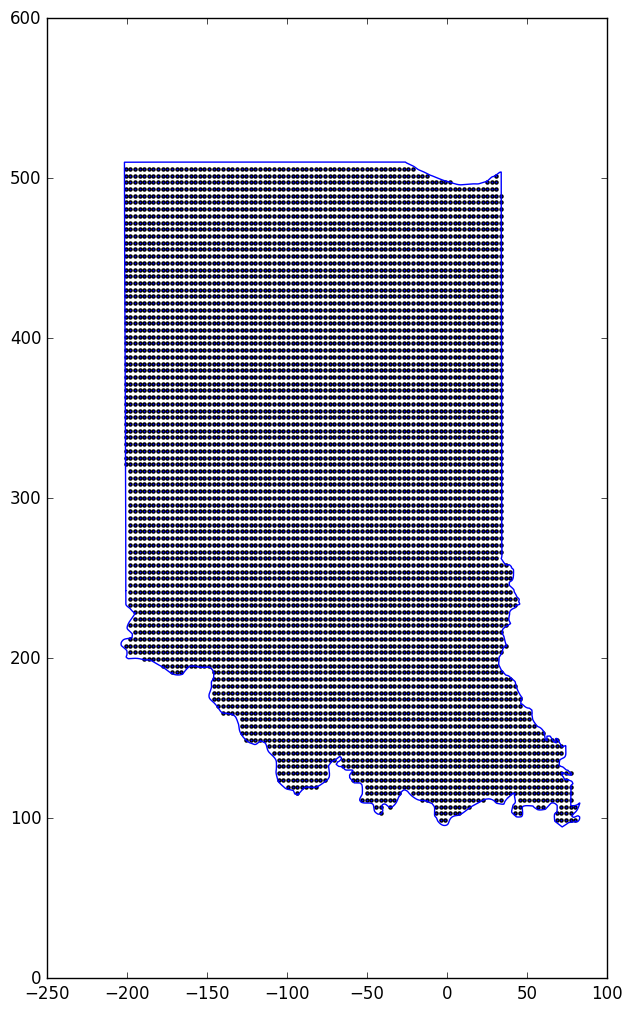
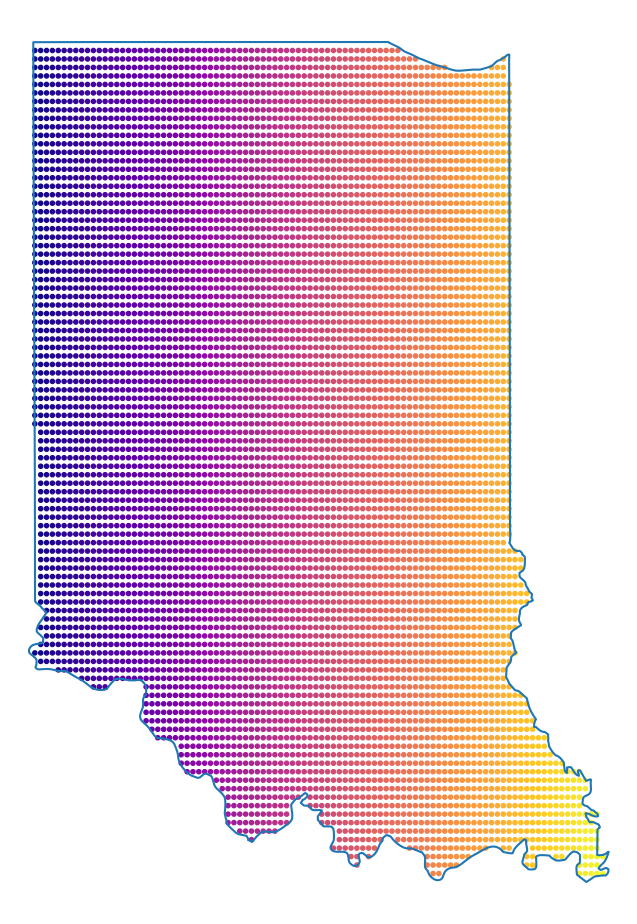
Updated plot output

diff --git a/demos/indiana.py b/demos/indiana.py
@@ -37,16 +37,16 @@ ps = xs + (1.0j) * ys
 # Determine if a point is inside of Omega by checking if the
 # winding number is 1
 winding_at_ps = pog.cauchy_integral(np.ones(zs_b.shape), ps.T).reshape((nps, 1))
-print(np.abs(winding_at_ps))
 i_xs = np.abs(winding_at_ps - 1) < 0.2
 ws = ps[i_xs]
 
 # Plot the path and grid
-plt.figure(1, figsize=(12, 12))
+fig, ax = plt.subplots(figsize=(12, 12))
 ws_xx, ws_yy = ws.real, ws.imag
-plt.plot(xs_b, ys_b)
-plt.scatter(ws_xx, ws_yy, marker=".")
-plt.axes().set_aspect("equal")
+ax.plot(xs_b, ys_b)
+ax.scatter(ws_xx, ws_yy, c=ws_xx, marker=".", cmap="plasma")
+ax.set_axis_off()
+ax.set_aspect("equal")
 
 # not guaranteed to fall inside of gamma, but set a the mean of gamma
 c = np.mean(ps)
@@ -61,18 +61,19 @@ rm = RiemannMapper(kks)
 zz = rm.evaluate_riemann(ws)
 
 x_zz, y_zz = zz[0].real, zz[0].imag
-plt.figure(2, figsize=(12, 12))
+fig, ax = plt.subplots(figsize=(12, 12))
 tt = np.linspace(0, 2 * np.pi, 100)
 circ_xs, circ_ys = np.cos(tt), np.sin(tt)
-plt.plot(circ_xs, circ_ys, label="circle")
-plt.scatter(x_zz, y_zz, marker=".")
-plt.axis([-1, 1, -1, 1])
-plt.axes().set_aspect("equal")
+ax.plot(circ_xs, circ_ys, label="circle")
+ax.scatter(x_zz, y_zz, c=ws_xx, marker=".", cmap="plasma")
+ax.axis([-1, 1, -1, 1])
+ax.set_axis_off()
+ax.set_aspect("equal")
 
 if save_image_flag:
     plt.figure(1)
-    plt.savefig("../imgs/indianaSource.png", bbox_inches="tight")
+    plt.savefig("../imgs/indianaSource.png", bbox_inches="tight", pad_inches=0)
     plt.figure(2)
-    plt.savefig("../imgs/indianaTarget.png", bbox_inches="tight")
+    plt.savefig("../imgs/indianaTarget.png", bbox_inches="tight", pad_inches=0)
 
 plt.show()
